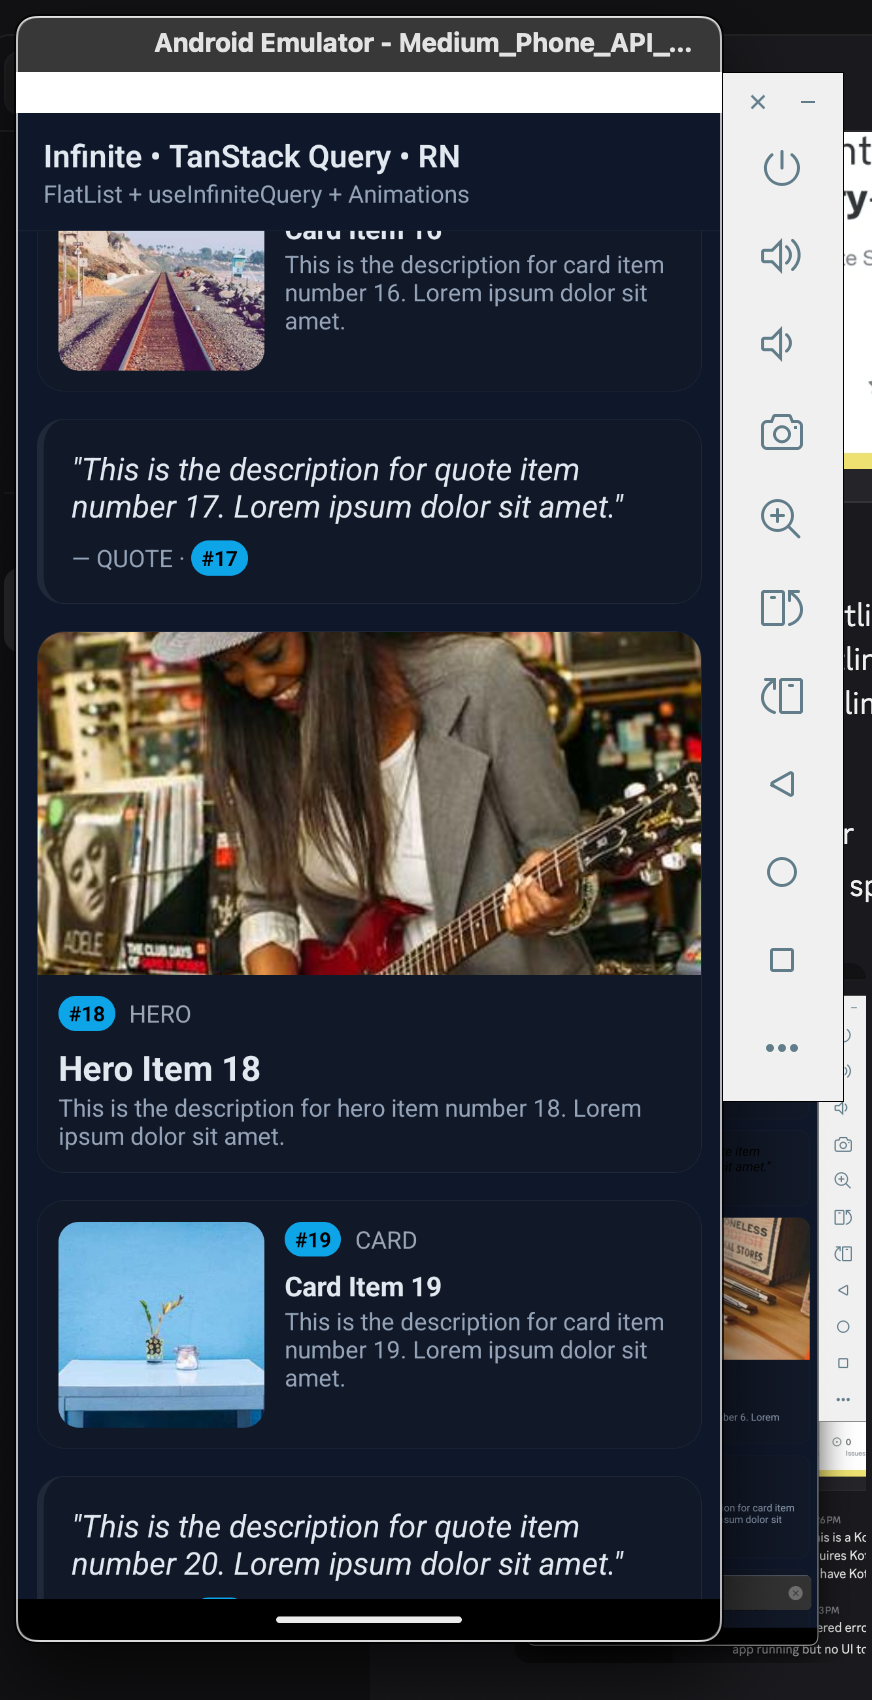
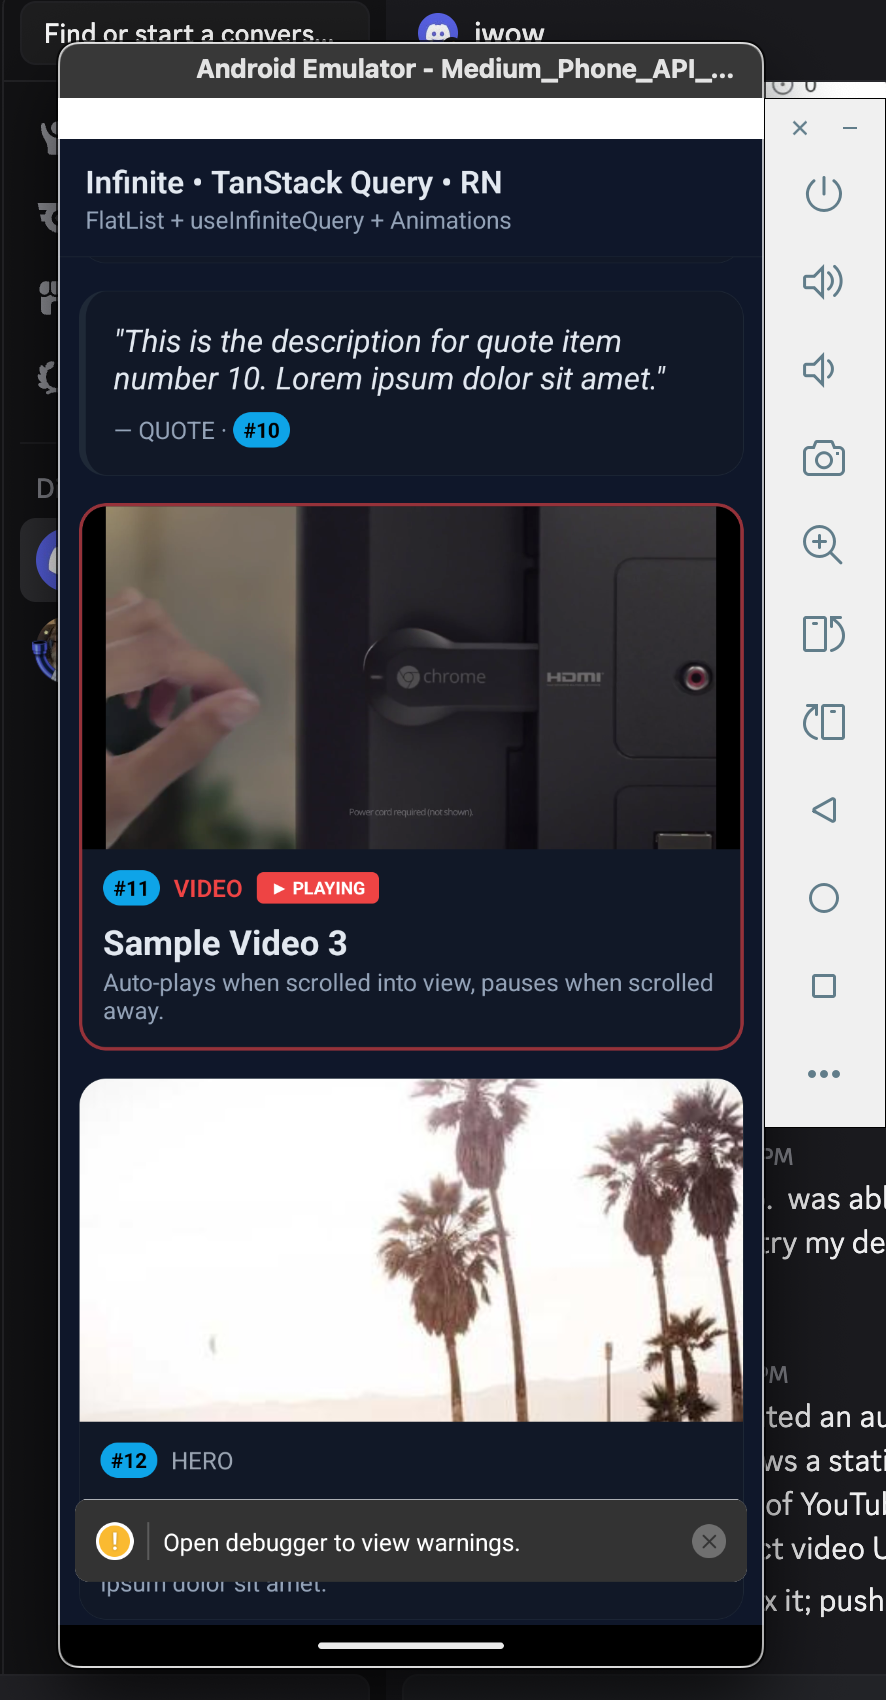
Add auto-playing video component with expo-av
- Replace react-native-youtube-iframe with expo-av for reliable autoplay
- Video components auto-play when scrolled into view, pause when out
- Videos loop continuously with native controls
- Add pulsing red border animation for video cards
- Update mock server to serve direct MP4 URLs (sample videos)
- Update README with video feature documentation and component types table
- Add cache-busting timestamp to screenshot URL

🤖 Generated with [Claude Code](https://claude.com/claude-code)

diff --git a/app/App.js b/app/App.js
@@ -1,4 +1,4 @@
-import React, { useCallback, useState } from "react";
+import React, { useCallback, useState, useRef } from "react";
 import { SafeAreaView, View, Text, FlatList, Image, StyleSheet, Dimensions } from "react-native";
 import { QueryClient, QueryClientProvider, useInfiniteQuery, useQuery } from "@tanstack/react-query";
 import { registerRootComponent } from "expo";
@@ -13,6 +13,7 @@ import Animated, {
   Extrapolate,
   runOnJS
 } from "react-native-reanimated";
+import { Video as ExpoVideo, ResizeMode } from "expo-av";
 
 const API_BASE = "http://192.168.1.152:5174";
 const { width: SCREEN_WIDTH } = Dimensions.get("window");
@@ -259,6 +260,77 @@ function Card({ data, index, isVisible }){
   );
 }
 
+// Video component with expo-av - autoplays when visible
+function Video({ data, index, isVisible }){
+  const videoRef = useRef(null);
+  const [status, setStatus] = useState({});
+  const scale = useSharedValue(0.95);
+  const borderGlow = useSharedValue(0);
+
+  React.useEffect(() => {
+    if (isVisible) {
+      // Start playing when visible
+      videoRef.current?.playAsync();
+      scale.value = withSpring(1, { damping: 15, stiffness: 100 });
+      borderGlow.value = withRepeat(
+        withSequence(
+          withTiming(1, { duration: 1500 }),
+          withTiming(0.3, { duration: 1500 })
+        ),
+        -1,
+        true
+      );
+    } else {
+      // Pause when not visible
+      videoRef.current?.pauseAsync();
+      borderGlow.value = withTiming(0.3, { duration: 300 });
+    }
+  }, [isVisible]);
+
+  const containerStyle = useAnimatedStyle(() => ({
+    transform: [{ scale: scale.value }],
+    borderColor: `rgba(239, 68, 68, ${interpolate(borderGlow.value, [0.3, 1], [0.3, 0.8])})`,
+    borderWidth: 2,
+  }));
+
+  if (!data?.videoUrl) {
+    return (
+      <View style={styles.section}>
+        <Text style={{ color: "#ffb4b4", padding: 16 }}>No video URL</Text>
+      </View>
+    );
+  }
+
+  return (
+    <Animated.View style={[styles.section, containerStyle]}>
+      <View style={{ backgroundColor: "#000" }}>
+        <ExpoVideo
+          ref={videoRef}
+          source={{ uri: data.videoUrl }}
+          style={{ width: SCREEN_WIDTH - 28, height: 200 }}
+          resizeMode={ResizeMode.CONTAIN}
+          isLooping
+          onPlaybackStatusUpdate={setStatus}
+          useNativeControls
+        />
+      </View>
+      <View style={{ padding: 12 }}>
+        <View style={{ flexDirection: "row", alignItems: "center" }}>
+          <AnimatedBadge index={index} isVisible={isVisible} />
+          <Text style={{ color: "#ef4444", marginLeft: 8, fontWeight: "600" }}>VIDEO</Text>
+          {status.isPlaying && (
+            <View style={styles.playingIndicator}>
+              <Text style={styles.playingText}>▶ PLAYING</Text>
+            </View>
+          )}
+        </View>
+        <Text style={styles.h2}>{data?.title || "Loading…"}</Text>
+        <Text style={styles.muted}>{data?.text || "Fetching…"}</Text>
+      </View>
+    </Animated.View>
+  );
+}
+
 function Row({ item, isVisible }){
   const { kind, index } = item;
   const { data, isLoading, isFetching, error } = useQuery({
@@ -281,6 +353,7 @@ function Row({ item, isVisible }){
         {kind === "hero" && <Hero data={data} index={index} isVisible={isVisible} />}
         {kind === "quote" && <Quote data={data} index={index} isVisible={isVisible} />}
         {kind === "card" && <Card data={data} index={index} isVisible={isVisible} />}
+        {kind === "video" && <Video data={data} index={index} isVisible={isVisible} />}
       </View>
     </AnimatedCard>
   );
@@ -359,4 +432,6 @@ const styles = StyleSheet.create({
   section: { backgroundColor: "#111827", borderRadius: 16, overflow: "hidden", borderWidth: StyleSheet.hairlineWidth, borderColor: "#1f2937", marginBottom: 16 },
   badge: { backgroundColor: "#0ea5e9", borderRadius: 999, paddingHorizontal: 6, paddingVertical: 2 },
   badgeText: { color: "black", fontWeight: "700", fontSize: 12 },
+  playingIndicator: { backgroundColor: "#ef4444", borderRadius: 4, paddingHorizontal: 8, paddingVertical: 2, marginLeft: 8 },
+  playingText: { color: "white", fontWeight: "700", fontSize: 10 },
 });

diff --git a/server.js b/server.js
@@ -2,28 +2,48 @@ const http = require('http');
 
 const PORT = 5174;
 const ITEMS_PER_PAGE = 10;
-const TOTAL_ITEMS = 50;
+const TOTAL_ITEMS = 60;
 
-// Generate mock data
+// Direct MP4 video URLs (public domain / sample videos)
+const CAT_VIDEOS = [
+  'https://commondatastorage.googleapis.com/gtv-videos-bucket/sample/BigBuckBunny.mp4',
+  'https://commondatastorage.googleapis.com/gtv-videos-bucket/sample/ElephantsDream.mp4',
+  'https://commondatastorage.googleapis.com/gtv-videos-bucket/sample/ForBiggerBlazes.mp4',
+  'https://commondatastorage.googleapis.com/gtv-videos-bucket/sample/ForBiggerEscapes.mp4',
+  'https://commondatastorage.googleapis.com/gtv-videos-bucket/sample/ForBiggerFun.mp4',
+  'https://commondatastorage.googleapis.com/gtv-videos-bucket/sample/ForBiggerJoyrides.mp4',
+];
+
+// Generate mock data - now with 4 kinds including video
 const sections = [];
-const kinds = ['hero', 'card', 'quote'];
+const kinds = ['hero', 'card', 'quote', 'video'];
 for (let i = 0; i < TOTAL_ITEMS; i++) {
   sections.push({
-    kind: kinds[i % 3],
+    kind: kinds[i % 4],
     index: i
   });
 }
 
 const sectionDetails = {};
 for (let i = 0; i < TOTAL_ITEMS; i++) {
-  const kind = kinds[i % 3];
-  sectionDetails[`${kind}:${i}`] = {
+  const kind = kinds[i % 4];
+  const baseData = {
     kind,
     index: i,
     title: `${kind.charAt(0).toUpperCase() + kind.slice(1)} Item ${i}`,
     text: `This is the description for ${kind} item number ${i}. Lorem ipsum dolor sit amet.`,
     image: `https://picsum.photos/seed/${i}/400/300`
   };
+
+  // Add video URL for video items
+  if (kind === 'video') {
+    const videoIndex = Math.floor(i / 4) % CAT_VIDEOS.length;
+    baseData.videoUrl = CAT_VIDEOS[videoIndex];
+    baseData.title = `Sample Video ${Math.floor(i / 4) + 1}`;
+    baseData.text = `Auto-plays when scrolled into view, pauses when scrolled away.`;
+  }
+
+  sectionDetails[`${kind}:${i}`] = baseData;
 }
 
 function handleRequest(req, res) {
@@ -94,4 +114,5 @@ server.listen(PORT, '0.0.0.0', () => {
   console.log('\nEndpoints:');
   console.log(`  GET /api/sections?page=0  - Get paginated sections`);
   console.log(`  GET /api/section?kind=hero&index=0  - Get section details`);
+  console.log(`  GET /api/section?kind=video&index=3  - Get video with videoUrl`);
 });

diff --git a/README.md b/README.md
@@ -2,7 +2,7 @@
 
 Shares the same API contract as the web app.
 
-![App Screenshot](images/screenshot.png)
+![App Screenshot](images/screenshot.png?ts=1764552868000)
 
 *Screenshot showing the infinite scroll feed with animated Hero, Quote, and Card components. Each component animates into view as you scroll - images slide in from the left, quotes type out character-by-character, badges pop in with counting animations, and hero cards pulse with a cyan glow effect.*
 
@@ -77,13 +77,28 @@ Then press `i` (iOS simulator) or `a` (Android emulator), or scan the QR code wi
 - **Infinite Scroll**: `FlatList` + `onEndReached` for paging with `useInfiniteQuery`
 - **Per-item Data Fetching**: Each row uses `useQuery(['section', kind, index])` to fetch content
 - **Viewport Animations**: Components animate when they scroll into view using `react-native-reanimated`
-  - Hero cards: Slide reveal images with pulsing glow border
+  - Hero cards: Slide reveal images with pulsing cyan glow border
   - Quote cards: Typewriter text effect
   - Card items: Tilt animation on entry
+  - Video cards: Auto-playing videos with pulsing red border
   - All items: Fade in, scale up, slide up animations
   - Animated badges with counting effect
+- **Auto-playing Videos**: Video components using `expo-av` that:
+  - Auto-play when scrolled into view
+  - Auto-pause when scrolled out of view
+  - Loop continuously
+  - Display native video controls
+
+## Component Types
+
+| Type | Description |
+|------|-------------|
+| Hero | Large image with slide reveal animation, pulsing cyan glow |
+| Card | Compact image + text with tilt animation |
+| Quote | Italicized text with typewriter effect |
+| Video | Auto-playing video with red glow border |
 
 ## Notes
 - Uses `FlatList`'s `onViewableItemsChanged` to track which items are visible
-- Animations trigger only once when items first become visible
+- Animations trigger only once when items first become visible (except videos which play/pause based on visibility)
 - To add offline cache persistence, wire `@tanstack/react-query-persist-client` with AsyncStorage.
